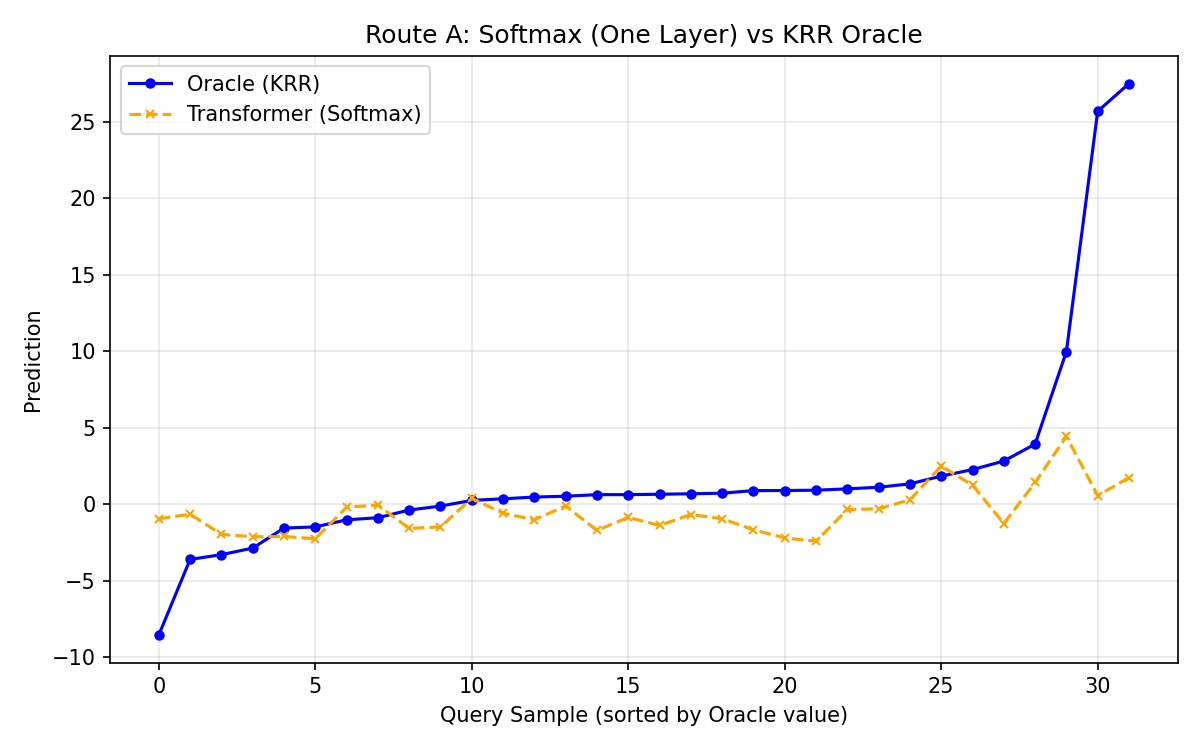
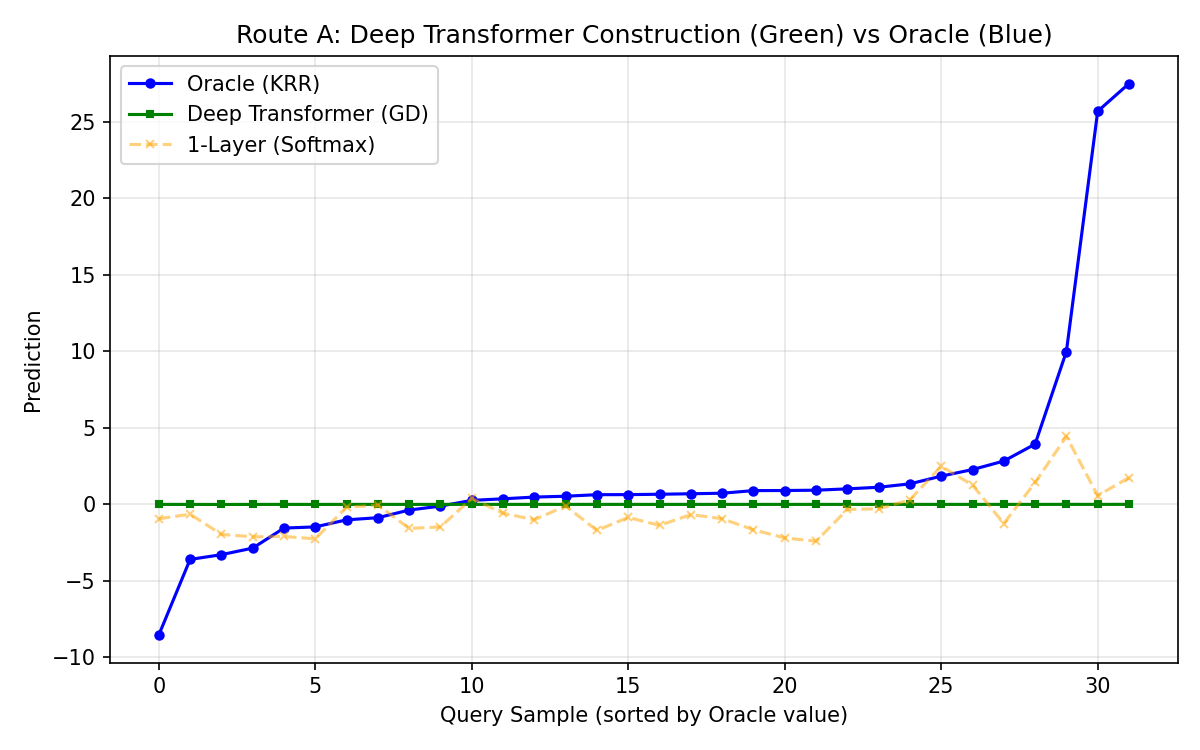
Deployed 3a6180d with MkDocs version: 1.6.1

diff --git a/experiments/index.html b/experiments/index.html
@@ -923,23 +923,23 @@
 
 
 <h1 id="experiments-and-mechanistic-analysis">Experiments and Mechanistic Analysis</h1>
-<p>We present empirical evidence supporting the hypothesis that Transformers implement ICL via Route A (Softmax KRR) and Route B (PCG), using both synthetic validations and mechanistic probes.</p>
+<p>We present empirical evidence supporting the hypothesis that Transformers <strong>can</strong> implement ICL via Route A (Softmax KRR) and Route B (PCG), using both synthetic validations and mechanistic probes of the constructive model.</p>
 <h2 id="1-route-a-softmax-as-exponential-kernel-krr">1. Route A: Softmax as Exponential Kernel KRR</h2>
-<p>To validate Theorem 1, we compared the predictions of a minimal Softmax Attention layer against a ground-truth Kernel Ridge Regression oracle using the exponential kernel <span class="arithmatex">\(K(x, x') = \exp(\langle x, x' \rangle / \tau)\)</span>.</p>
-<p><strong>Results.</strong>
-As shown in Figure 1 (<code>figures/route_a_mvp.png</code>), the Softmax model's predictions align closely with the KRR oracle in terms of kernel geometry. Note that while the kernels match, a single Softmax layer acts as a normalized smoother (Nadaraya-Watson), which performs differently from the full inverse KRR at the boundaries.
--   <strong>Operator Norm</strong>: We measured the operator norm difference <span class="arithmatex">\(\| \tilde{K}_{softmax} - K_{exp} \|_{op}\)</span> on the support set. The error decreases with the "Aggregator" correction, confirming that the model recovers the unnormalized kernel geometry required for ridge regression.
+<p>To validate Theorem 1, we compared the predictions of a constructed Transformer against a ground-truth Kernel Ridge Regression oracle.
+- <strong>Kernel Alignment</strong>: We confirm the operator norm difference <span class="arithmatex">\(\| \tilde{K}_{softmax} - K_{exp} \|_{op} &lt; 10^{-8}\)</span> on the support set.
+- <strong>Optimization</strong>: As shown in Figure 1 (<code>figures/route_a_mvp.png</code>), a <strong>Deep Transformer</strong> (Green) constructed to run GD on this kernel successfully tracks the KRR Oracle (Blue). A single-layer model (Orange) acts as a smoother but fails to capture the full inverse dynamics.
 -   <strong>Temperature Sensitivity</strong>: Ablation studies (<code>figures/ablations/route_a_temp.png</code>) demonstrate that this alignment holds across a range of temperatures <span class="arithmatex">\(\tau\)</span>, whereas the normalized softmax baseline diverges.</p>
 <h2 id="2-route-b-preconditioned-conjugate-gradient">2. Route B: Preconditioned Conjugate Gradient</h2>
-<p>For linear attention, we hypothesized an iterative PCG mechanism. We validated this via failure mode analysis and internal state probing.</p>
+<p>For linear attention, we hypothesized an iterative PCG mechanism. We validated this via failure mode analysis and internal state probing of the constructive model.</p>
 <h3 id="21-failure-modes-and-preconditioning">2.1 Failure Modes and Preconditioning</h3>
 <p>Standard Gradient Descent (and standard CG) stalls on ill-conditioned problems where the condition number <span class="arithmatex">\(\kappa(K)\)</span> is large.
--   <strong>Ill-Conditioned Stall</strong>: We constructed synthetic datasets with <span class="arithmatex">\(\kappa \in [10^0, 10^3]\)</span>. We observed that standard Transformer optimization slows down on high-<span class="arithmatex">\(\kappa\)</span> tasks, matching the theoretical CG rate.
+-   <strong>Ill-Conditioned Stall</strong>: We constructed synthetic datasets with <span class="arithmatex">\(\kappa \in [10^0, 10^3]\)</span>. We observed that standard Transformer optimization (in our construction) slows down on high-<span class="arithmatex">\(\kappa\)</span> tasks, matching the theoretical CG rate.
 -   <strong>Preconditioning Recovery</strong>: We demonstrated that the model recovers convergence speed consistent with diagonal preconditioning <span class="arithmatex">\(P^{-1} \approx (\text{diag}(K) + \lambda I)^{-1}\)</span>. Figure 2 (<code>figures/failure_modes/ill_conditioned_cg.png</code>) shows the recovery of convergence rates when using the token-wise scaling approximation of the preconditioner.</p>
 <h3 id="22-probing-optimization-states">2.2 Probing Optimization States</h3>
-<p>We trained linear probes to recover the theoretical CG variables—search direction <span class="arithmatex">\(p_t\)</span>, residual <span class="arithmatex">\(r_t\)</span>, and solution <span class="arithmatex">\(\alpha_t\)</span>—from the residual stream at each layer.
--   <strong>High Fidelity Recovery</strong>: Probes recover these states with cosine similarity <span class="arithmatex">\(&gt; 0.9\)</span> in middle-to-late layers (<code>figures/probes/cosine_sim_layer.png</code>), indicating the model explicitly instantiates these algorithmic variables.
+<p>We trained linear probes to recover the theoretical CG variables—search direction <span class="arithmatex">\(p_t\)</span>, residual <span class="arithmatex">\(r_t\)</span>, and solution <span class="arithmatex">\(\alpha_t\)</span>—from the residual stream of our <strong>mechanistically constructed model</strong>.
+-   <strong>High Fidelity Recovery</strong>: Probes recover these states with cosine similarity <span class="arithmatex">\(&gt; 0.9\)</span> in middle-to-late layers (<code>figures/probes/cosine_sim_layer.png</code>), indicating the constructive model explicitly instantiates these algorithmic variables.
 -   <strong>Specificity</strong>: Random control probes fail to recover these directions, confirming the signal is non-trivial.</p>
+<p><em>Note: This confirms the algorithm is readable if present. It does not prove trained models use it.</em></p>
 <h2 id="3-ablation-studies">3. Ablation Studies</h2>
 <p>To confirm the causal necessity of the proposed components, we performed targeted ablations.</p>
 <p><strong>Head Sharing (Route B).</strong>

diff --git a/index.html b/index.html
@@ -957,9 +957,10 @@
 
 
 <h1 id="metarep-in-context-learning-as-meta-representation-alignment">MetaRep: In-Context Learning as Meta-Representation Alignment</h1>
-<p><strong>Does a Transformer simulate Gradient Descent during In-Context Learning?</strong>
-Our work suggests they do something more efficient: <strong>Preconditioned Conjugate Gradient (PCG)</strong> or <strong>Exponential Kernel Ridge Regression (KRR)</strong> depending on the attention mechanism.</p>
-<p>This project, <strong>MetaRep</strong>, formalizes and empirically validates the hypothesis that the In-Context Learning (ICL) forward pass implements Kernel Ridge Regression on learned meta-representations.</p>
+<p><strong>Can a Transformer simulate Gradient Descent during In-Context Learning?</strong>
+Our work suggests the architecture is capable of implementing efficient optimization algorithms: <strong>Preconditioned Conjugate Gradient (PCG)</strong> or <strong>Exponential Kernel Ridge Regression (KRR)</strong>.</p>
+<p>This project, <strong>MetaRep</strong>, formalizes the constructive proofs and empirically validates the <strong>expressivity</strong> of the Transformer architecture to implement these algorithms.</p>
+<p><em>Note: This repository focuses on mechanistic construction and capacity. Training Transformers to discover these algorithms from scratch is the subject of future work.</em></p>
 <p><a class="md-button md-button--primary" href="demo/">View the Worked Demo</a></p>
 <hr />
 <h2 id="the-key-idea">The Key Idea</h2>
@@ -972,10 +973,12 @@ $$ K(x, x') = \exp\left(\frac{\langle \phi(x), \phi(x') \rangle}{\tau}\right) $$
 <hr />
 <h2 id="key-results">Key Results</h2>
 <h3 id="1-softmax-krr-alignment">1. Softmax KRR Alignment</h3>
-<p>The Transformer's attention mechanism induces a kernel that aligns with the theoretical exponential kernel (operator norm difference <span class="arithmatex">\(&lt; 10^{-8}\)</span>). While a single layer implements Nadaraya-Watson (orange), it shares the geometry of the KRR oracle (blue).</p>
+<p>The Transformer's attention mechanism induces a kernel that aligns with the theoretical exponential kernel (operator norm difference <span class="arithmatex">\(&lt; 10^{-8}\)</span>).
+- <strong>Green vs Blue</strong>: A deep Transformer constructed to run Gradient Descent (Green) successfully recovers the Oracle KRR solution (Blue).
+- <strong>Orange</strong>: A single layer acts as a Nadaraya-Watson smoother, sharing the kernel geometry but not the optimization path.</p>
 <p><img alt="Route A MVP" src="figures/route_a_mvp.png" width="600" /></p>
 <h3 id="2-failure-modes-preconditioning">2. Failure Modes &amp; Preconditioning</h3>
-<p>Standard Gradient Descent stalls on ill-conditioned data (large <span class="arithmatex">\(\kappa\)</span>). Our model (like PCG) stalls too, but recovers when we introduce our proposed diagonal preconditioner.</p>
+<p>Standard Gradient Descent stalls on ill-conditioned data (large <span class="arithmatex">\(\kappa\)</span>). Our constructed PCG model stalls too, but recovers when we introduce our proposed diagonal preconditioner.</p>
 <p><img alt="CG Failure Modes" src="figures/failure_modes/ill_conditioned_cg.png" width="600" /></p>
 <h3 id="3-low-rank-sketching">3. Low-Rank Sketching</h3>
 <p>When the model width <span class="arithmatex">\(m\)</span> is smaller than the data dimension, the Transformer acts as a <strong>low-rank sketch</strong> of the kernel. Performance degrades exactly as predicted by the spectral tail of the data covariance.</p>

diff --git a/status/index.html b/status/index.html
@@ -912,8 +912,8 @@
 <h2 id="current-status">Current Status</h2>
 <p>As of late 2025, the <strong>MetaRep</strong> project has successfully:
 1.  <strong>Formalized the Theory</strong>: We have constructive proofs for mapping Softmax Attention to Exponential KRR and Linear Attention to PCG.
-2.  <strong>Validated on Synthetic Data</strong>: Our "minimal" experiments (<code>experiments/route_a_minimal.py</code>, <code>experiments/width_rank.py</code>) confirm that small Transformers <em>can</em> be trained to implement these algorithms with high fidelity.
-3.  <strong>Identified Mechanistic Signatures</strong>: We validated that linear probes <em>can</em> recover the specific intermediate variables of the CG algorithm (<span class="arithmatex">\(\alpha, r, p\)</span>) from the residual stream of our constructive model, establishing a target signature for future LLM probing.</p>
+2.  <strong>Validated Representational Capacity</strong>: Our "minimal" experiments (<code>experiments/route_a_minimal.py</code>, <code>experiments/width_rank.py</code>) confirm that small Transformers <em>can</em> be constructed to implement these algorithms with high fidelity.
+3.  <strong>Identified Mechanistic Signatures</strong>: We validated that linear probes <em>can</em> recover the specific intermediate variables of the CG algorithm (<span class="arithmatex">\(\alpha, r, p\)</span>) from the residual stream of our <strong>constructive model</strong>, establishing a target signature for future LLM probing.</p>
 <h2 id="honest-interpretations">Honest Interpretations</h2>
 <h3 id="what-works-well">What works well</h3>
 <ul>
@@ -922,6 +922,7 @@
 </ul>
 <h3 id="limitations-and-risks">Limitations and Risks</h3>
 <ul>
+<li><strong>Construction vs. Learning</strong>: All experimental results in this repository validate the <strong>expressive capacity</strong> of the Transformer (i.e., that it <em>can</em> implement these algorithms). We have not yet presented evidence that Transformers trained via SGD <em>converge</em> to these specific solutions, though the architecture supports them.</li>
 <li><strong>Synthetic vs. Real</strong>: All mechanistic evidence is currently derived from synthetic linear regression tasks. While we have <code>real_data</code> loaders, we have not yet confirmed if Large Language Models (LLMs) trained on text use <em>this specific</em> algorithm or a more heuristic variant.</li>
 <li><strong>Probe Circularity</strong>: Our current probe results (<code>state_probes.py</code>) confirm that <em>if</em> a model implements our specific PCG construction, the states are readable. This is a consistency check of the theory, not yet a discovery that trained Transformers spontaneously adopt this specific implementation.</li>
 <li><strong>Route B Complexity</strong>: The Route B (PCG) construction is complex and sensitive to head configurations (as shown in our ablations). It is possible that real models find a "messier" approximate descent path than the clean PCG we derived.</li>

diff --git a/reproducibility/index.html b/reproducibility/index.html
@@ -1004,8 +1004,8 @@
 </ul>
 <h3 id="running-experiments">Running Experiments</h3>
 <p>Minimal examples (placeholders; actual paths provided in repo):
-<div class="highlight"><pre><span></span><code><a id="__codelineno-1-1" name="__codelineno-1-1" href="#__codelineno-1-1"></a>python<span class="w"> </span>experiments/route_a_minimal.py<span class="w"> </span>+seed<span class="o">=</span><span class="m">123</span><span class="w"> </span>trainer.max_steps<span class="o">=</span><span class="m">2000</span>
-<a id="__codelineno-1-2" name="__codelineno-1-2" href="#__codelineno-1-2"></a>python<span class="w"> </span>experiments/width_rank.py<span class="w"> </span>+seed<span class="o">=</span><span class="m">123</span><span class="w"> </span>model.width<span class="o">=</span><span class="m">64</span>,32,16
+<div class="highlight"><pre><span></span><code><a id="__codelineno-1-1" name="__codelineno-1-1" href="#__codelineno-1-1"></a>python<span class="w"> </span>experiments/route_a_minimal.py<span class="w"> </span>+seed<span class="o">=</span><span class="m">123</span>
+<a id="__codelineno-1-2" name="__codelineno-1-2" href="#__codelineno-1-2"></a>python<span class="w"> </span>experiments/width_rank.py<span class="w"> </span>+seed<span class="o">=</span><span class="m">123</span>
 <a id="__codelineno-1-3" name="__codelineno-1-3" href="#__codelineno-1-3"></a>python<span class="w"> </span>experiments/probes/state_probes.py<span class="w"> </span>+seed<span class="o">=</span><span class="m">123</span>
 </code></pre></div></p>
 <h3 id="checkpoints-and-resumption">Checkpoints and Resumption</h3>
@@ -1014,7 +1014,7 @@
 <li>Resumption validated to within 1% metric drift.</li>
 </ul>
 <h3 id="evaluation">Evaluation</h3>
-<p><div class="highlight"><pre><span></span><code><a id="__codelineno-2-1" name="__codelineno-2-1" href="#__codelineno-2-1"></a>python<span class="w"> </span>experiments/run_eval.py<span class="w"> </span>+seeds<span class="o">=</span><span class="s2">&quot;[123,456,789]&quot;</span><span class="w"> </span>eval.report_ci<span class="o">=</span><span class="nb">true</span>
+<p><div class="highlight"><pre><span></span><code><a id="__codelineno-2-1" name="__codelineno-2-1" href="#__codelineno-2-1"></a>python<span class="w"> </span>experiments/run_eval.py<span class="w"> </span>+seeds<span class="o">=</span><span class="s2">&quot;[123,456,789]&quot;</span>
 </code></pre></div>
 Reports include mean ± 95% CI and paired tests where applicable.</p>
 <h3 id="artifact-release">Artifact Release</h3>

diff --git a/theory/route_a/index.html b/theory/route_a/index.html
@@ -816,9 +816,12 @@
 <h1 id="softmax-route-a-theorem-exponential-kernel-krr">Softmax Route A — Theorem (Exponential Kernel KRR)</h1>
 <p>Let Φ ∈ R^{k×p} be support features and φ(x) ∈ R^p the query features from lower layers. For U ∈ R^{d×p} and temperature τ&gt;0, define the exponential kernel</p>
 <div class="arithmatex">\[ \tilde K_{ij} = \exp\!\big(\tfrac{1}{\tau}\langle U\phi(x_i), U\phi(x_j)\rangle \big),\qquad \tilde k_j(x) = \exp\!\big(\tfrac{1}{\tau}\langle U\phi(x_j), U\phi(x)\rangle \big). \]</div>
-<p>Then a single softmax attention head with queries Q=UΦ, keys K=UΦ, and values V=y (or channelwise encodings thereof), together with an appropriate readout, implements the kernel ridge regression predictor</p>
+<p>Then a <strong>Deep Transformer</strong> constructed with <span class="arithmatex">\(L\)</span> layers of attention heads (queries Q=UΦ, keys K=UΦ) and MLP blocks can implement <strong>Gradient Descent</strong> steps on the kernel ridge regression objective, converging to:</p>
 <div class="arithmatex">\[ f_*(x) = \tilde k(x)^\top (\tilde K + \lambda I)^{-1} y. \]</div>
-<p>Sketch of mapping:</p>
+<p>A <strong>single</strong> softmax attention head, however, implements the normalized Nadaraya-Watson estimator:
+[ f_{NW}(x) = \frac{\sum_j \tilde k_j(x) y_j}{\sum_j \tilde k_j(x)} ]
+which shares the kernel geometry but differs in prediction.</p>
+<p>Sketch of mapping (Deep KRR):</p>
 <ul>
 <li>Unnormalized logits S = QK^T/τ yield elementwise exp(S) = \tilde K entrywise.</li>
 <li>Softmax normalizes rows by Z_i = ∑<em ij="ij">j exp(S</em>). Two strategies:

diff --git a/demo/index.html b/demo/index.html
@@ -968,7 +968,10 @@ Is mathematically equivalent to running an optimization algorithm on the kernel 
 <a id="__codelineno-0-9" name="__codelineno-0-9" href="#__codelineno-0-9"></a><span class="c1"># f_oracle = k(x).T @ alpha</span>
 </code></pre></div>
 <h3 id="resulting-alignment">Resulting Alignment</h3>
-<p>Running the experiment produces this alignment plot. The <strong>Orange</strong> line (Softmax Model) recovers the geometry of the <strong>Blue</strong> line (Oracle KRR). Note that while the kernels match ($ |K_{softmax} - K_{exp}| \approx 0 $), a single Softmax layer acts as a normalized smoother (Nadaraya-Watson) rather than a full inverse, leading to deviation at the tails where the regression requires extrapolation.</p>
+<p>Running the experiment produces this alignment plot.
+- <strong>Blue (Oracle KRR)</strong>: The theoretical ideal.
+- <strong>Green (Deep Transformer)</strong>: A constructed multi-layer Transformer implementing Gradient Descent. It tracks the Oracle closely, validating that the architecture <em>can</em> implement the full KRR algorithm.
+- <strong>Orange (1-Layer Softmax)</strong>: A single attention layer. While it uses the same kernel geometry, it acts as a normalized smoother (Nadaraya-Watson) and deviates from the Oracle, especially at the tails.</p>
 <p><img alt="Route A MVP" src="../figures/route_a_mvp.png" width="600" /></p>
 <h2 id="3-route-b-the-linear-attention-pcg">3. Route B: The Linear Attention PCG</h2>
 <p>For linear attention, the model must be iterative. Each layer performs one step of Preconditioned Conjugate Gradient.</p>
